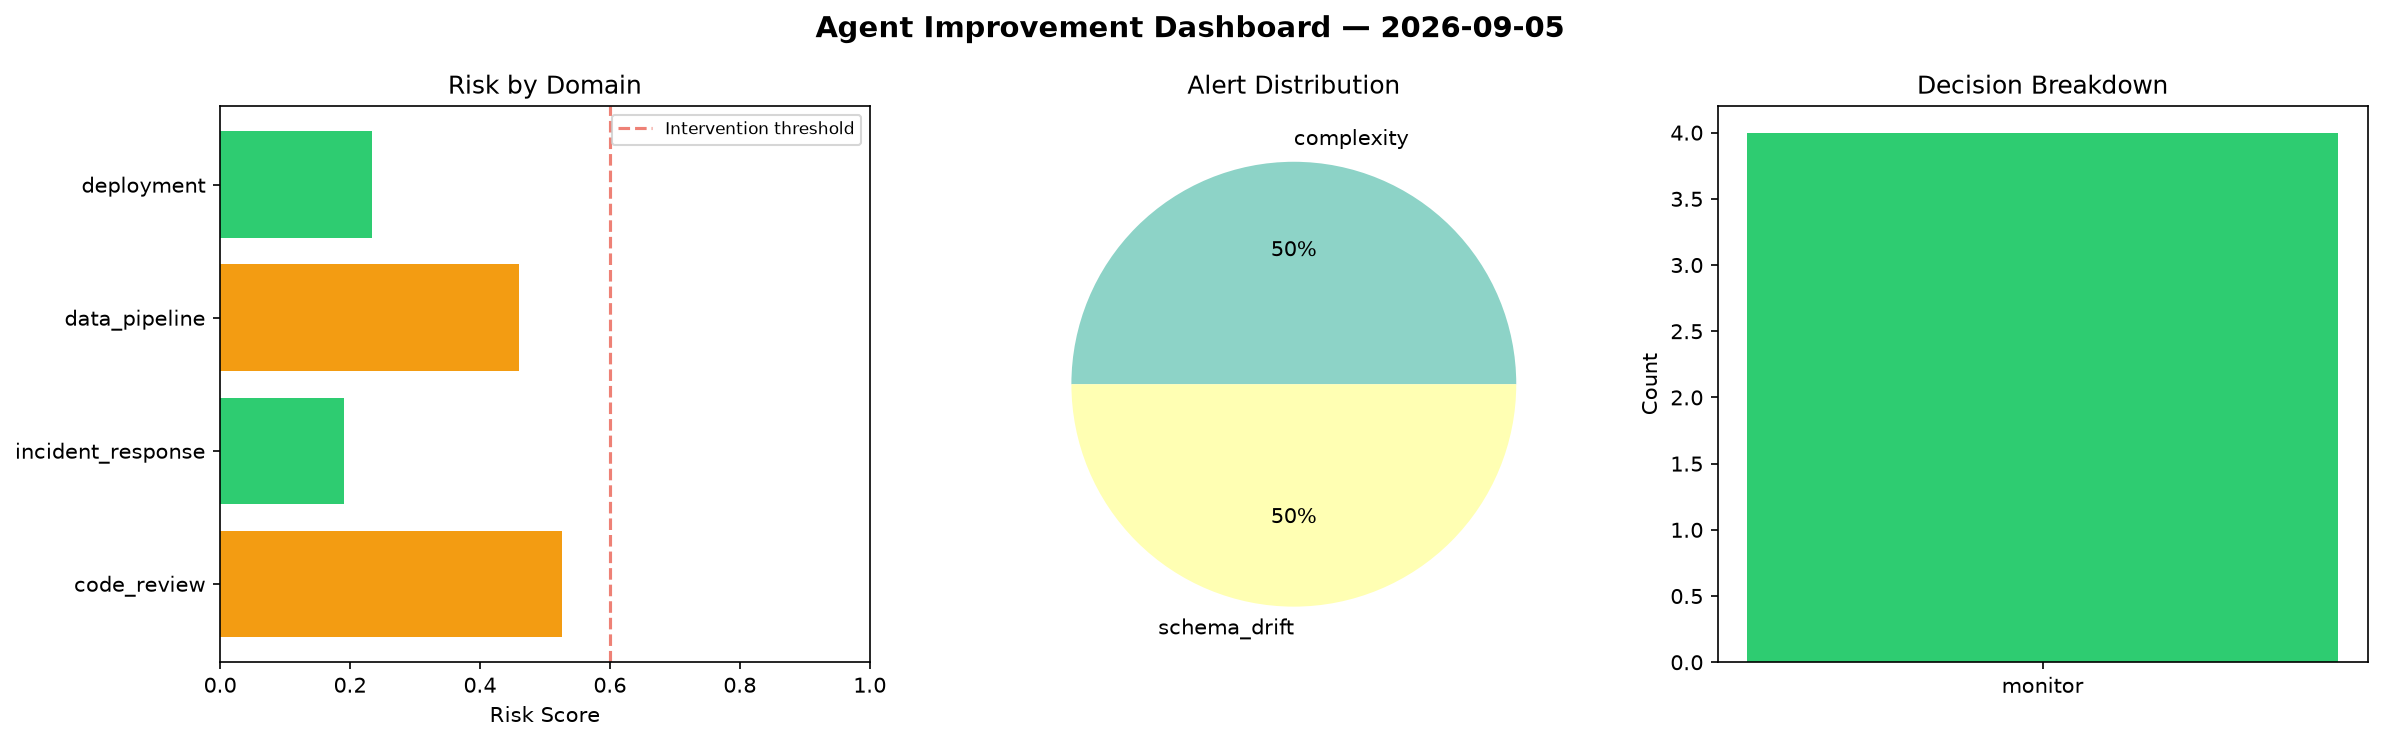
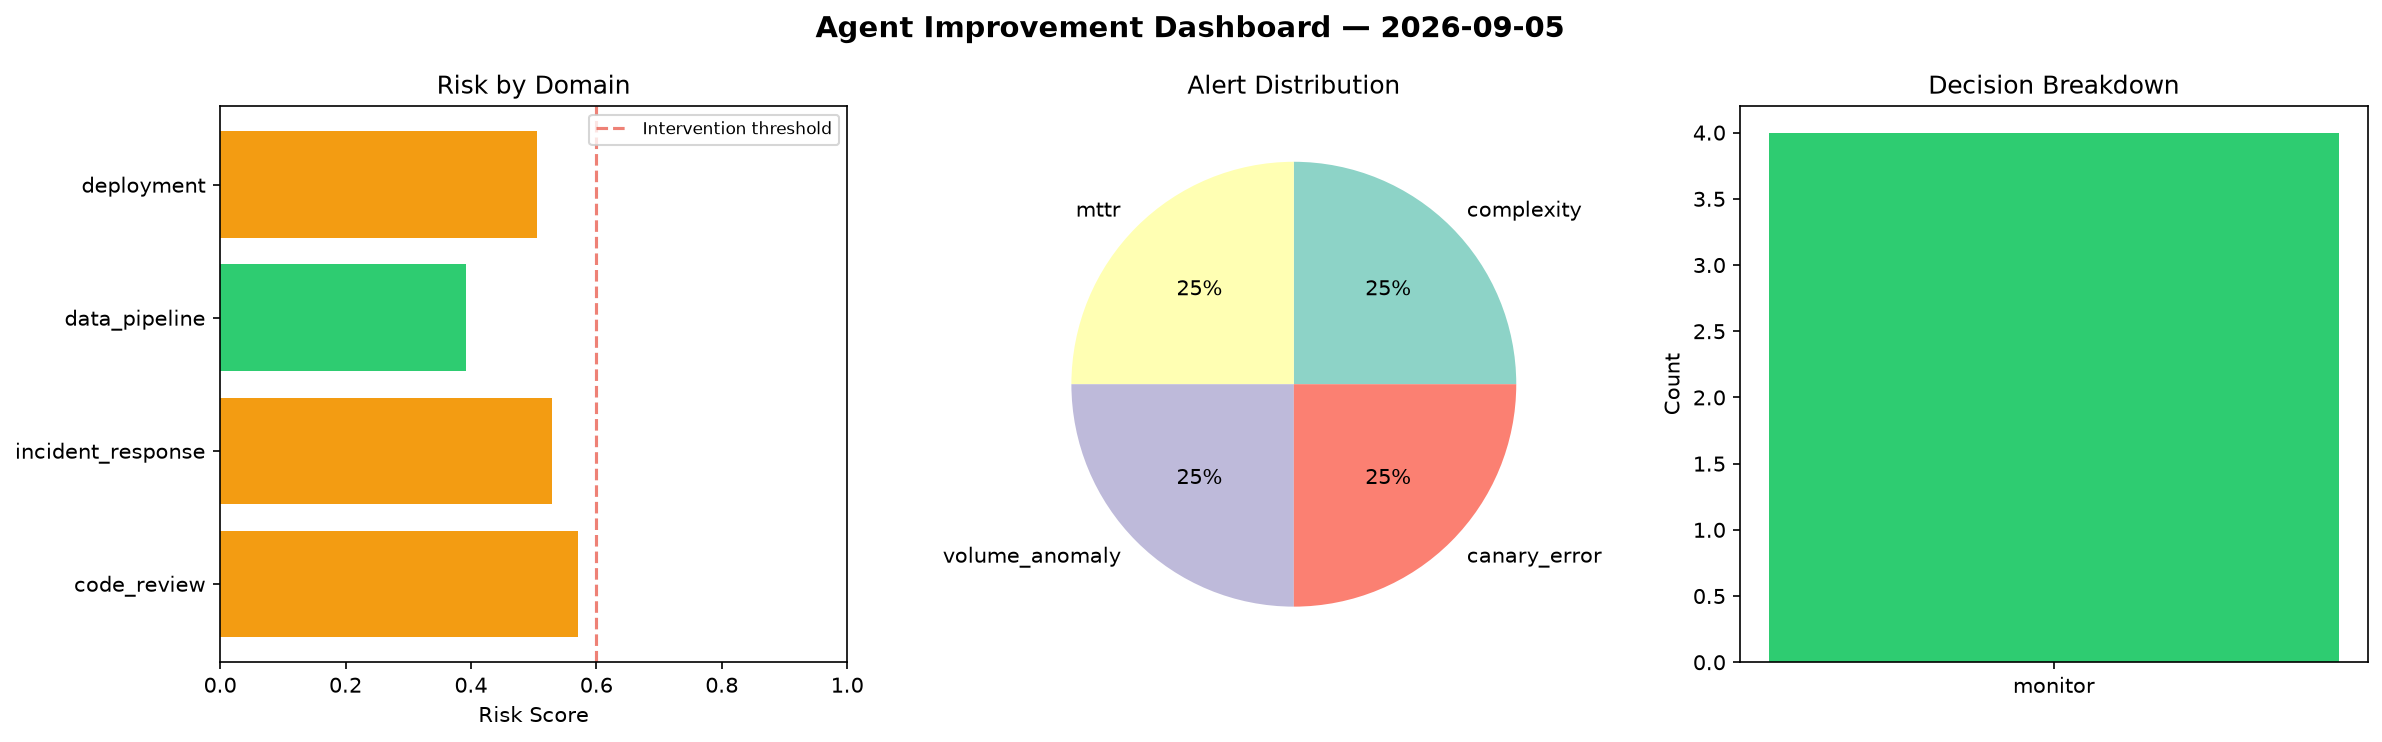
agent-improvement: daily cycle 2026-09-05T11:49

diff --git a/logs/2026-09-05.md b/logs/2026-09-05.md
@@ -1,6 +1,6 @@
 # Agent Improvement Report — 2026-09-05
 
-**Cycle ID:** `d0dfa16b` | **Avg Risk:** 0.3527 | **Interventions:** 0/4
+**Cycle ID:** `465bcf0b` | **Avg Risk:** 0.4994 | **Interventions:** 0/4
 
 ![Dashboard](2026-09-05_dashboard.png)
 
@@ -10,18 +10,18 @@
 
 | Domain | Risk Score | Decision | Alerts |
 |--------|-----------|----------|--------|
-| code_review | 0.5268 | monitor | complexity |
-| incident_response | 0.1902 | monitor | none |
-| data_pipeline | 0.4607 | monitor | schema_drift |
-| deployment | 0.2332 | monitor | none |
+| code_review | 0.5709 | monitor | complexity |
+| incident_response | 0.5285 | monitor | mttr |
+| data_pipeline | 0.392 | monitor | volume_anomaly |
+| deployment | 0.506 | monitor | canary_error |
 
 ## Delta vs Yesterday
 
 | Domain | Today | Yesterday | Change |
 |--------|-------|-----------|--------|
-| code_review | 0.5268 | 0.5391 | 📉 -2.3% |
-| incident_response | 0.1902 | 0.6138 | 📉 -69.0% |
-| data_pipeline | 0.4607 | 0.4909 | 📉 -6.2% |
-| deployment | 0.2332 | 0.4767 | 📉 -51.1% |
+| code_review | 0.5709 | 0.5391 | 📈 5.9% |
+| incident_response | 0.5285 | 0.6138 | 📉 -13.9% |
+| data_pipeline | 0.392 | 0.4909 | 📉 -20.1% |
+| deployment | 0.506 | 0.4767 | 📈 6.1% |
 
 **Refinement:** `{'adjustment': 'maintain', 'trend': 'improving', 'window': 4}`
